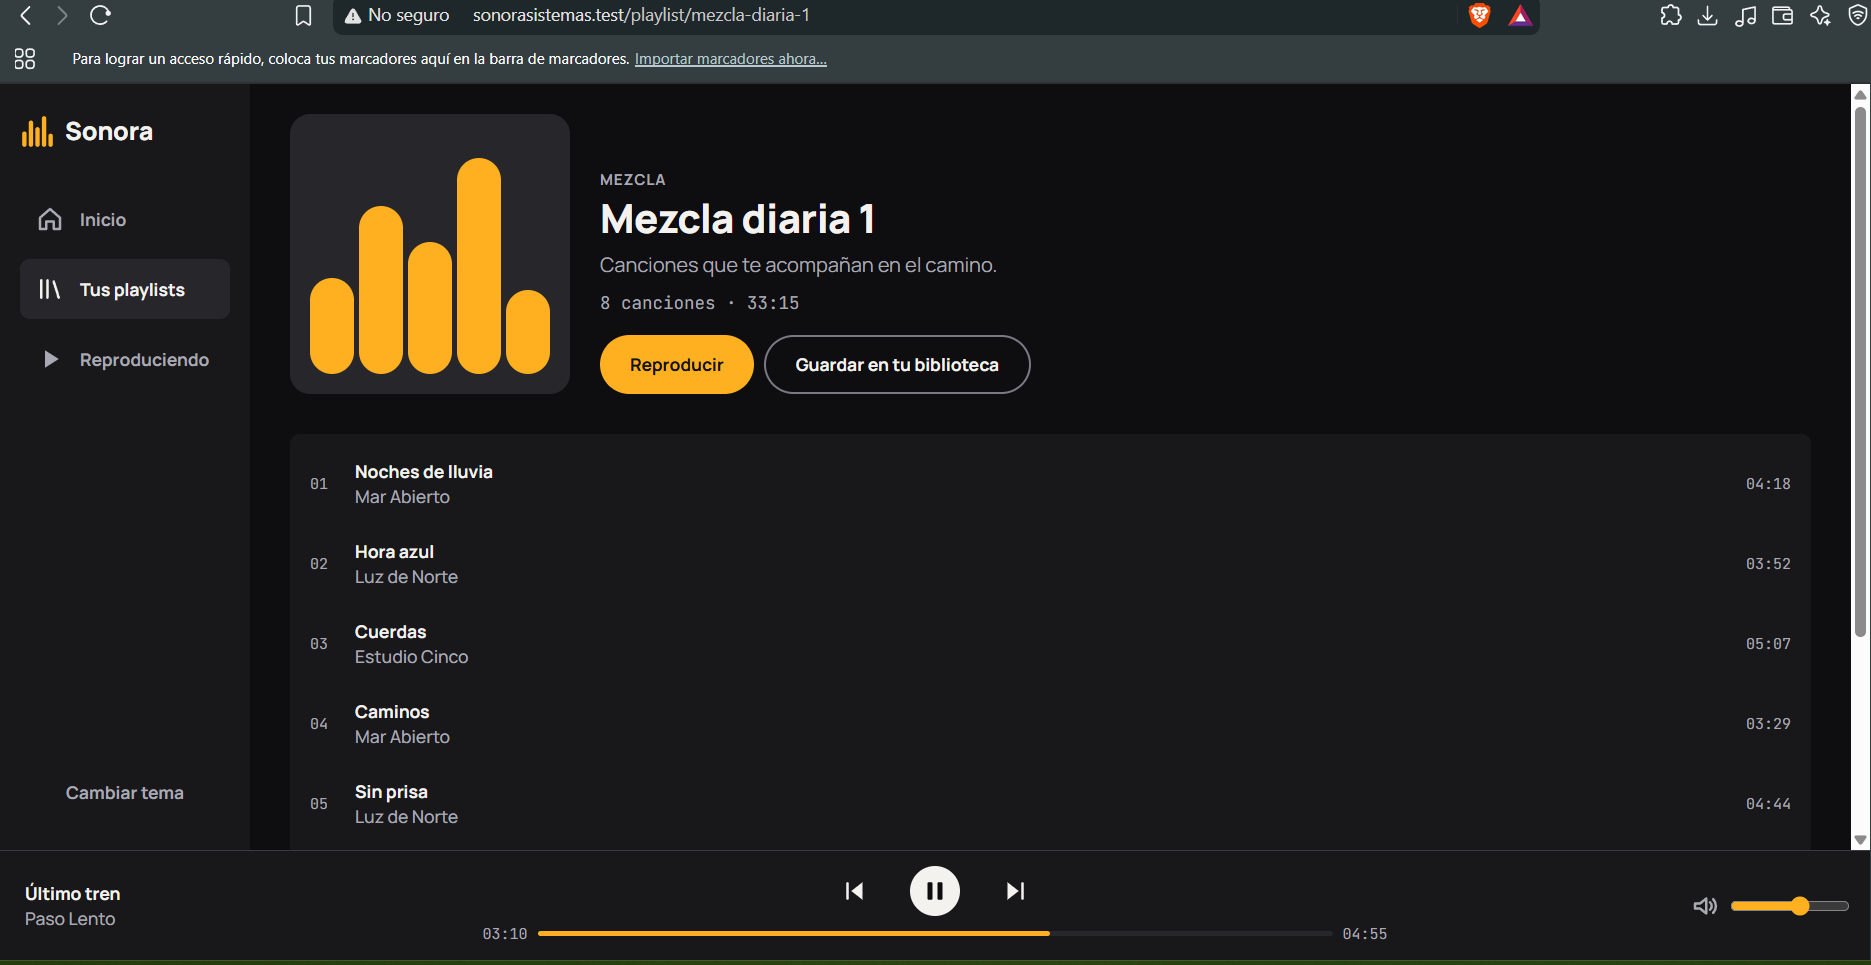
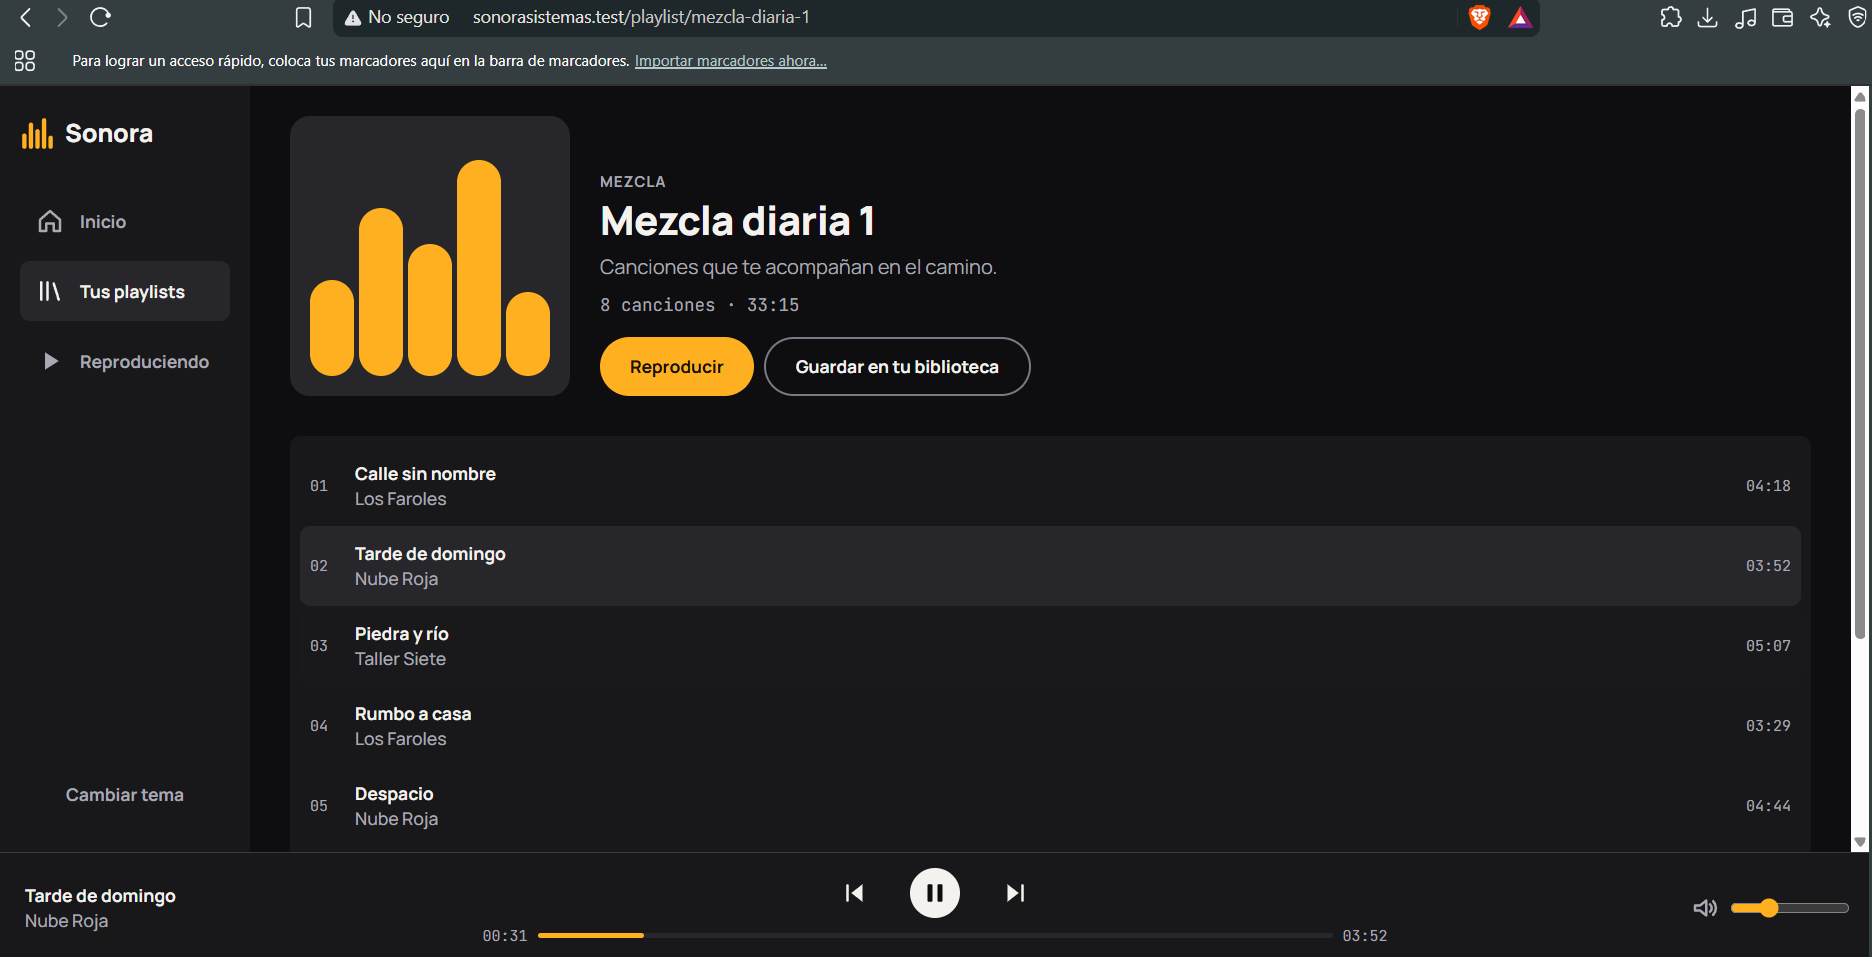
Datos de ejemplo propios

diff --git a/app/Support/Catalogo.php b/app/Support/Catalogo.php
@@ -2,27 +2,24 @@
 
 namespace App\Support;
 
-/**
- * Datos de ejemplo INVENTADOS (nada de artistas ni portadas reales).
- * Más adelante se puede reemplazar por el modelo Track (ver README, fase 2).
- */
+
 class Catalogo
 {
     /** @return array<int, array{id:int,titulo:string,artista:string,album:string,dur:int}> */
     public static function pistas(): array
     {
         $datos = [
-            ['Noches de lluvia', 'Mar Abierto',   'Hora lenta',     258],
-            ['Hora azul',        'Luz de Norte',  'Costa vacía',    232],
-            ['Cuerdas',          'Estudio Cinco', 'Sala 5',         307],
-            ['Caminos',          'Mar Abierto',   'Hora lenta',     209],
-            ['Sin prisa',        'Luz de Norte',  'Costa vacía',    284],
-            ['Faro del sur',     'Paso Lento',    'Mapa de sal',    241],
-            ['Ventana abierta',  'Cielo Bajo',    'Tarde larga',    198],
-            ['Marea baja',       'Mar Abierto',   'Hora lenta',     266],
-            ['Café y neblina',   'Estudio Cinco', 'Sala 5',         223],
-            ['Último tren',      'Paso Lento',    'Mapa de sal',    295],
-        ];
+    ['Calle sin nombre',   'Los Faroles',    'Madrugada',     258],
+    ['Tarde de domingo',   'Nube Roja',      'Costa quieta',  232],
+    ['Piedra y río',       'Taller Siete',   'Sala 7',        307],
+    ['Rumbo a casa',       'Los Faroles',    'Madrugada',     209],
+    ['Despacio',           'Nube Roja',      'Costa quieta',  284],
+    ['Luz del puerto',     'Viento Largo',   'Mapa de arena', 241],
+    ['Balcón de abril',    'Cielo Chico',    'Tarde corta',   198],
+    ['Marea alta',         'Los Faroles',    'Madrugada',     266],
+    ['Té y llovizna',      'Taller Siete',   'Sala 7',        223],
+    ['Tren de medianoche', 'Viento Largo',   'Mapa de arena', 295],
+];
 
         return array_map(
             fn ($d, $i) => [
